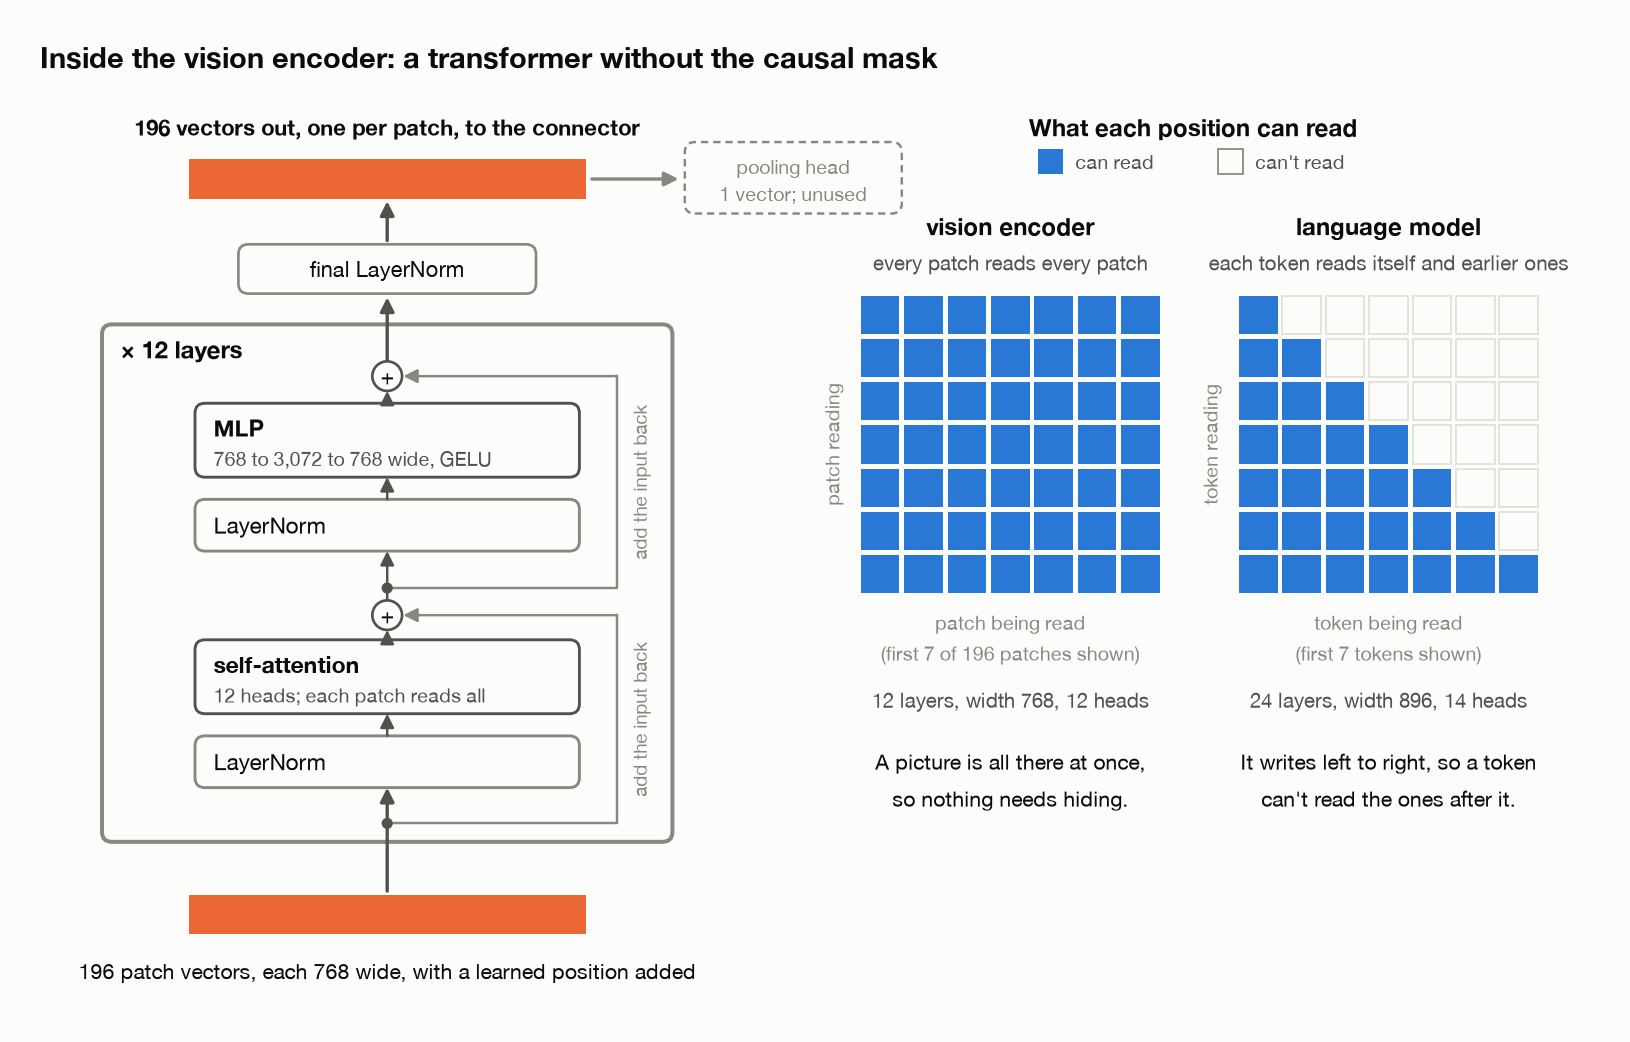
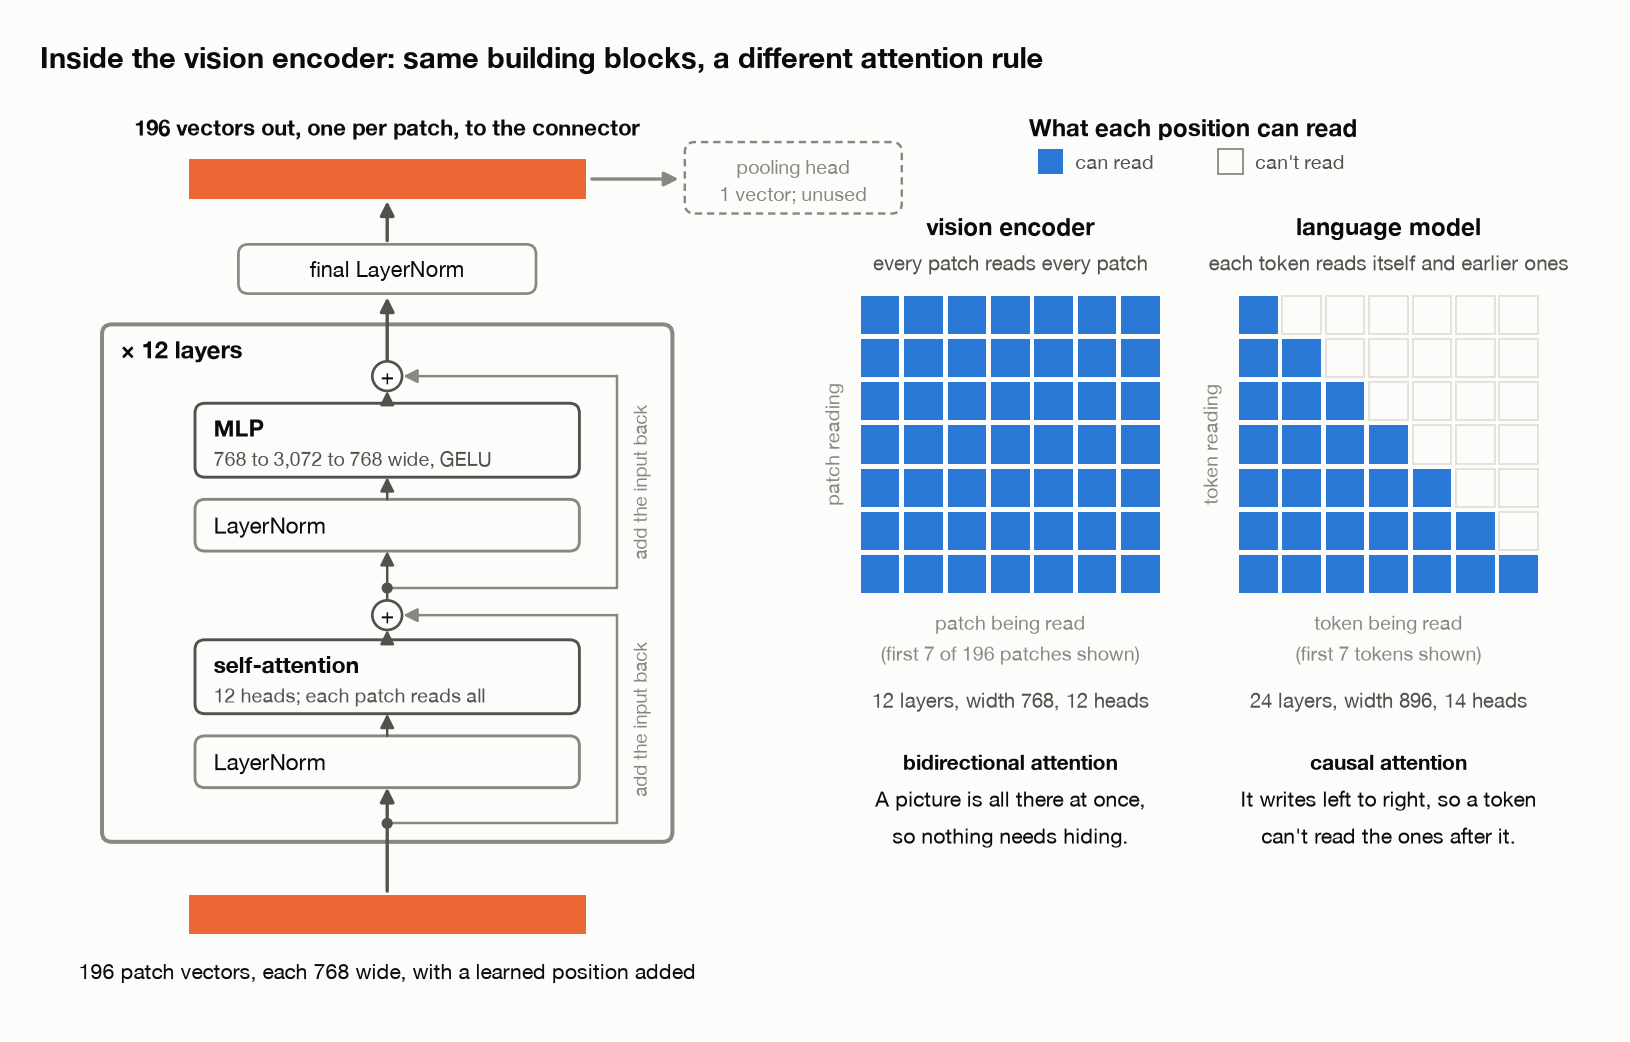
Post 7: Inside the encoder leads with the causal mask
Restructured: the mask first, why text needs it and a picture doesn't,
BERT as the encoder-not-vision nuance, then the experiment (receipt
split into s1c) with the relative L2 change defined, then the layer
walk-through, then the architecture table (s1b) as engineering choices.
Figure names bidirectional vs causal attention. 23/23 receipts.

Changed region(s): [[0.7669, 0.7063, 0.9509, 0.8292], [0.5521, 0.7063, 0.7055, 0.8292], [0.2454, 0.0307, 0.6442, 0.0921]]

diff --git a/_posts/2026-11-03-llm-architectures-multimodal.md b/_posts/2026-11-03-llm-architectures-multimodal.md
@@ -262,15 +262,44 @@ Here are the numbers, from the real encoder ([`pixels_to_patches`](https://githu
 
 #### Inside the encoder {#inside-the-encoder}
 
-So far the encoder has been a box. Opened up, it's a transformer, built from the same parts [post 1](/posts/llm-architectures-attention-and-rope/) took apart in the language model, stacked 12 times:
+The 196 patch embeddings now go through the encoder's 12 transformer layers. If you've read [post 1](/posts/llm-architectures-attention-and-rope/), almost everything inside them will look familiar: self-attention, an MLP, normalization, and adding each step's input back. One thing is different, and it's the one that matters: **the encoder has no causal mask.** A patch can look in every direction. A token in the language model can only look back.
 
 <!-- FIGURE: encoder-inside -->
 ![Inside the vision encoder: patch vectors go through 12 identical layers of LayerNorm, self-attention, LayerNorm and MLP, each adding its input back, then a final LayerNorm, giving 196 vectors; beside it, an attention grid where every patch reads every patch, against the language model's triangle where each token reads only itself and earlier ones](/assets/picture/2026-10-11-llm-architectures-multimodal/encoder-inside-light.png){: .light width="1000" height="639" }
 ![Inside the vision encoder: patch vectors go through 12 identical layers of LayerNorm, self-attention, LayerNorm and MLP, each adding its input back, then a final LayerNorm, giving 196 vectors; beside it, an attention grid where every patch reads every patch, against the language model's triangle where each token reads only itself and earlier ones](/assets/picture/2026-10-11-llm-architectures-multimodal/encoder-inside-dark.png){: .dark width="1000" height="639" }
 
-Each of the 12 layers does two things, in order. **Self-attention** lets every patch vector gather information from the others: the patch on the edge of a circle can find out that the patches around it are orange too. Then an **MLP** (multi-layer perceptron: a few matrices with a simple function between them, the block post 1 called the FFN) works on each patch vector by itself, the same small network applied to all 196. Before each step a **LayerNorm** rescales every vector to a standard size, and after each step the step's input is **added back** to its output, so a layer only has to learn a correction rather than rebuild the vector from scratch. If that sounds like a language model's layer, it is: post 1's block has the same two steps, the same normalization before each, the same adding back.
+**Why text looks back and a picture doesn't have to.** A language model is trained to predict each next token. If the token at position 5 could read position 6, training would be pointless: it could copy the answer it's meant to predict. And when the model generates, position 6 doesn't exist yet. So post 1 added a **causal mask**, which blocks every position from attending to later ones: position 5 reads positions 1 to 5 and nothing after. That's the triangle on the right of the figure.
 
-Here are the two models side by side, every row read from the loaded modules rather than typed in ([`inside_the_encoder`](https://github.com/bearbearyu1223/llm-architectures-refresher/blob/main/src/llmrefresher/demos/d07_multimodal.py)):
+A picture isn't written one patch at a time. All 196 patches are there at once and nothing is being predicted, so there's no reason for the patch at the top-left of a circle to ignore the patches to its right or below it. The encoder lets every patch attend to every patch, itself included, in both directions: the full square on the left. Both are self-attention. They differ only in which connections are allowed.
+
+This isn't a rule about pictures versus text. [BERT](https://arxiv.org/abs/1810.04805), a text model built to read rather than write, also lets every token attend in both directions. The line runs between an **encoder**, which reads a whole input at once, and a **decoder** like Qwen, which writes one token at a time.
+
+**Does the mask really make a difference?** Change only the last position, and see whether the first position notices. For the encoder, paint the last patch, bottom right, black. For the language model, change the last word of "a red circle and a blue square" to "triangle". Then compare the first position's output, after all the layers, before and after the change:
+
+$$\text{moved} = \frac{\lVert h_1^{\text{changed}} - h_1^{\text{original}} \rVert}{\lVert h_1^{\text{original}} \rVert}$$
+
+Here $h_1$ is the first position's output vector and $\lVert \cdot \rVert$ is a vector's length, so "moved" is how far the vector shifted, as a share of its own length ([`inside_the_encoder`](https://github.com/bearbearyu1223/llm-architectures-refresher/blob/main/src/llmrefresher/demos/d07_multimodal.py)):
+
+<!-- RECEIPT: s1c -->
+```text
+  Change only the last position; how far does the first one's output move?
+
+  model                               what changed  first output moved
+  ----------------------------------------------------------------------
+  vision encoder    patch 196 of 196 painted black               15.7%
+  language model  token 7 of 7: square -> triangle           exactly 0
+
+  >> The encoder is a transformer much like the language model, with one
+     difference that matters: no causal mask. Every patch reads every
+     other patch, so the first patch's vector moves when only the last one
+     changes; the language model's first word can't see the last.
+```
+
+The encoder's first patch moved by **15.7%**, because in every one of its 12 layers it read the last patch. The language model's first output moved by **exactly 0**, not a rounding error, because nothing at position 1 ever reads position 7. The 15.7% belongs to this picture and this patch; what the receipt shows is the contrast. It's why the encoder's 196 output vectors can each carry information from the whole picture.
+
+**What's inside each layer.** Each of the 12 layers does two things, in order. **Self-attention** lets every patch vector gather information from the others: the patch on the edge of a circle can find out that the patches around it are orange too. Then an **MLP** (multi-layer perceptron: a few matrices with a simple function between them, the block post 1 called the FFN) works on each patch vector by itself, the same small network applied to all 196. Attention mixes information between positions; the MLP transforms each position on its own. Before each step a **LayerNorm** rescales every vector to a standard size, and after each step the step's input is **added back** to its output, so a layer only has to learn a correction rather than rebuild the vector from scratch. Post 1's block has the same two steps, the same normalization before each, the same adding back. After 12 layers there are still 196 vectors, each 768 wide, but each now carries information from across the picture.
+
+**The other differences are engineering choices.** Here are the two models side by side, every row read from the loaded modules rather than typed in ([`inside_the_encoder`](https://github.com/bearbearyu1223/llm-architectures-refresher/blob/main/src/llmrefresher/demos/d07_multimodal.py)):
 
 <!-- RECEIPT: s1b -->
 ```text
@@ -286,25 +315,9 @@ Here are the two models side by side, every row read from the loaded modules rat
   norm                       LayerNorm         RMSNorm
   position           learned, 196 rows          rotary
   causal mask                       no             yes
-
-  Change only the last position; how far does the first one's output move?
-
-  model                               what changed  first output moved
-  ----------------------------------------------------------------------
-  vision encoder    patch 196 of 196 painted black               15.7%
-  language model  token 7 of 7: square -> triangle           exactly 0
-
-  >> The encoder is a transformer much like the language model, with one
-     difference that matters: no causal mask. Every patch reads every
-     other patch, so the first patch's vector moves when only the last one
-     changes; the language model's first word can't see the last.
 ```
 
-Most of the differences are small choices that two teams made differently. The encoder uses LayerNorm where Qwen uses RMSNorm, a cheaper variant that skips subtracting the mean. Its MLP is two matrices with a GELU between them (a smooth version of "keep positives, zero negatives"), where Qwen's is three matrices with a SiLU gate ([post 1's FFN](/posts/llm-architectures-attention-and-rope/#the-ffn)). It gives each patch a learned position vector, one row per grid position, where Qwen rotates its queries and keys (RoPE, [post 1](/posts/llm-architectures-attention-and-rope/)). And it uses all 12 heads for keys and values, where Qwen shares 2 key/value heads among 14 query heads to keep its KV cache small, a saving an encoder doesn't need because it never generates anything.
-
-**The difference that matters is the last row: the encoder has no causal mask.** A language model writes one token at a time, left to right, so when it's computing a position it must not see the positions after it, which don't exist yet when it generates. Post 1 enforced that with a **causal mask**, which blocks every position from attending to later ones. A picture isn't written left to right. All 196 patches are there at once, so the encoder lets every patch attend to every other one, in both directions.
-
-The second half of the receipt measures exactly that. Paint only the last patch, bottom right, black, and the *first* patch's output vector, top left, moves by 15.7% (the length of the change, as a share of the vector's length), because the first patch read the last one in every layer. Change only the last word of a sentence and the language model's first output doesn't move at all, because nothing at position 1 ever reads position 7.
+Most of the differences are small choices that two teams made differently. The encoder uses LayerNorm where Qwen uses RMSNorm, a cheaper variant that skips subtracting the mean. Its MLP is two matrices with a GELU between them (a smooth version of "keep positives, zero negatives"), where Qwen's is three matrices with a SiLU gate ([post 1's FFN](/posts/llm-architectures-attention-and-rope/#the-ffn)). It gives each patch a learned position vector, one row per grid position, where Qwen rotates its queries and keys (RoPE, [post 1](/posts/llm-architectures-attention-and-rope/)). And it uses all 12 heads for keys and values, where Qwen shares 2 key/value heads among 14 query heads to keep its KV cache small, a saving an encoder doesn't need because it never generates anything. None of these is what makes one a picture encoder and the other a text generator. The mask is.
 
 #### Why the encoder already knows what it's looking at {#why-frozen}
 
@@ -988,6 +1001,7 @@ The terms this post leans on; anything not listed is defined where it first appe
 - Dosovitskiy et al., [An Image is Worth 16x16 Words: Transformers for Image Recognition at Scale](https://arxiv.org/abs/2010.11929) (2020) — the vision transformer. §3.1 is §1's recipe: the image is reshaped "into a sequence of flattened 2D patches", which are mapped "to D dimensions with a trainable linear projection", with "standard learnable 1D position embeddings" added.
 - Radford et al., [Learning Transferable Visual Models From Natural Language Supervision](https://arxiv.org/abs/2103.00020) (2021) — CLIP: an image encoder and a text encoder trained together on "400 million (image, text) pairs" (§2.2) to predict which pictures go with which captions (§2.3). The encoder most VLMs started from.
 - Zhai et al., [Sigmoid Loss for Language Image Pre-Training](https://arxiv.org/abs/2303.15343) (2023) — SigLIP, this post's encoder. It replaces CLIP's batch-wide comparison with a loss that "processes every image-text pair independently" (§3.2), which "does not require a global view of the pairwise similarities for normalization" (abstract).
+- Devlin et al., [BERT: Pre-training of Deep Bidirectional Transformers for Language Understanding](https://arxiv.org/abs/1810.04805) (2018) — a text encoder that lets every token attend in both directions, cited in §1 to show that dropping the causal mask belongs to encoders, not to pictures.
 - Liu et al., [Visual Instruction Tuning](https://arxiv.org/abs/2304.08485) (2023) — LLaVA, the recipe this post follows. A frozen CLIP ViT-L/14 encoder, "a simple linear layer" as the connector (§4.1), and two stages (§4.2): the projection alone on 595K picture-caption pairs filtered from CC3M with encoder and language model frozen, then the projection and the whole language model on instruction data.
 - Liu et al., [Improved Baselines with Visual Instruction Tuning](https://arxiv.org/abs/2310.03744) (2023) — LLaVA-1.5. A two-layer MLP connector in place of the linear one, and 336-pixel input (§3.3). The paper doesn't state a token count; §8's 576 is $(336/14)^2$ from its encoder's patch size.
 - Wang et al., [Qwen2-VL: Enhancing Vision-Language Model's Perception of the World at Any Resolution](https://arxiv.org/abs/2409.12191) (2024) — the 2 × 2 merge this post's connector uses: "a simple MLP layer is employed after the ViT to compress adjacent 2 × 2 tokens into a single token" (§2.1), pictures of any size turned into a varying number of tokens, and the special tokens that mark where a picture starts and ends (§2.2.1). Video is sampled "at two frames per second" (§2.1).
